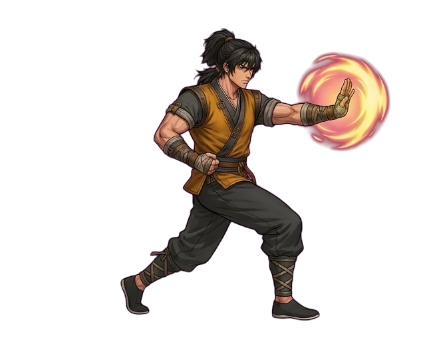
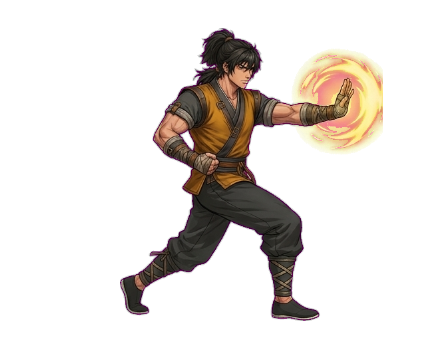
현운 공격 3번째 장면: 장풍 소용돌이가 뜯겨 보이던 것 다시 자름 (바탕색 풀기)

diff --git a/tools/recut_unmix_hy_attack2.js b/tools/recut_unmix_hy_attack2.js
@@ -1,0 +1,39 @@
+(async () => {
+  // 현운 공격 3번째 장면 다시 자르기: 마젠타(255,0,255) 바탕을 "색 풀기"로 빼서 빛나는 장풍 가장자리를 살림
+  const im = new Image(); im.src = '/assets_new/hyunwoon_attack_gem.png?t=' + Date.now(); await im.decode();
+  const W = im.width, H = im.height, cw = W / 2, ch = H / 2;
+  const c = document.createElement('canvas'); c.width = cw; c.height = ch;
+  const x = c.getContext('2d'); x.drawImage(im, 0, ch, cw, ch, 0, 0, cw, ch); // 아래 왼쪽 칸
+  const id = x.getImageData(0, 0, cw, ch), d = id.data;
+  // 바탕색: 네 귀퉁이 근처 평균 (정확한 255,0,255 가 아님)
+  let mr = 0, mg = 0, mb = 0, n = 0;
+  for (const [sx, sy] of [[10, 10], [cw - 20, 10], [10, ch - 20], [cw - 20, ch - 20], [cw / 2, 10]]) for (let yy = 0; yy < 10; yy++) for (let xx = 0; xx < 10; xx++) { const j = ((sy + yy) * cw + sx + xx) * 4; mr += d[j]; mg += d[j + 1]; mb += d[j + 2]; n++; }
+  const M = [mr / n / 255, mg / n / 255, mb / n / 255];
+  for (let i = 0; i < d.length; i += 4) {
+    const P = [d[i] / 255, d[i + 1] / 255, d[i + 2] / 255];
+    // 바탕은 R·B 가 높고 G 가 0 근처. 바탕 흔들림(약 0.1)은 무시
+    const m = 0.1;
+    let a = Math.max(P[1] / 0.9, (M[0] - m - P[0]) / (M[0] - m), (M[2] - m - P[2]) / (M[2] - m), (Math.abs(P[0] - P[2]) - 0.08) / 0.5);
+    const dist = Math.max(Math.abs(P[0] - M[0]), Math.abs(P[1] - M[1]), Math.abs(P[2] - M[2]));
+    if (dist > 0.5 && P[1] < 0.75) { d[i + 3] = 255; continue; } // 사람 몸: 바탕과 확실히 다르면 그대로 (빛나는 노랑은 아래에서 풀기)
+    if (a < 0.08) { d[i + 3] = 0; continue; }
+    a = Math.min(1, a);
+    for (let q = 0; q < 3; q++) d[i + q] = Math.max(0, Math.min(255, ((P[q] - (1 - a) * M[q]) / a) * 255));
+    d[i + 1] = Math.min(d[i + 1], Math.max(d[i], d[i + 2])); // 가장자리 초록 끼 빼기
+    d[i + 3] = Math.round(a * 255);
+  }
+  window.__M = M;
+  // 오른쪽 아래 제미나이 ✦ 자리(이 칸엔 없음) — 칸 가장자리 4px 비움
+  for (let y = 0; y < ch; y++) for (let X = 0; X < cw; X++) if (X < 4 || Y(y) || X >= cw - 4) d[(y * cw + X) * 4 + 3] = 0;
+  function Y(y) { return y < 4 || y >= ch - 4; }
+  x.putImageData(id, 0, 0);
+  // 그려진 범위
+  let minx = 1e9, maxx = -1, miny = 1e9, maxy = -1;
+  for (let y = 0; y < ch; y++) for (let X = 0; X < cw; X++) if (d[(y * cw + X) * 4 + 3] > 40) { if (X < minx) minx = X; if (X > maxx) maxx = X; if (y < miny) miny = y; if (y > maxy) maxy = y; }
+  // 지금 게임 그림(440x340): 위 28 · 발 320 · 왼쪽 120 에 맞춤
+  const k = (320 - 28) / (maxy - miny);
+  const o = document.createElement('canvas'); o.width = 440; o.height = 340;
+  const ox = o.getContext('2d'); ox.imageSmoothingQuality = 'high';
+  ox.drawImage(c, minx, miny, maxx - minx + 1, maxy - miny + 1, 120, 28, (maxx - minx + 1) * k, (maxy - miny + 1) * k);
+  return JSON.stringify({ M: window.__M, k, minx, maxx, miny, maxy, right: 120 + (maxx - minx) * k, url: o.toDataURL('image/png') });
+})()

diff --git a/작업기록.md b/작업기록.md
@@ -319,3 +319,4 @@
 - 발도일섬 동작·효과 키움 (11-13 사용자: "제스처나 이펙트가 약함"): 일섬 방향으로 260 거리를 0.09초에 꿰뚫고 지나감(경공 이동을 빌려 씀 → 장애물·무적 그대로) + 잔상 6개, 굵게 빛나는 검기(앞으로 뻗어 가늘어짐)·불꽃·속도선, 시작점 빛 고리, 맞은 적마다 X자 베인 자국(지나간 순서대로), 옆으로 튕김, 화면 당김·잠깐 느리게·흔들림 11. 일섬·자국은 적·협객 위 층(renderPlumBlossoms 뒤)에 그림 — 전엔 바닥 층이라 적에 가려 거의 안 보였음.
 - 시험용 협객 개방 (11-13 사용자): 주소 뒤 ?test → 현운·당소연 바로 고를 수 있음(이 기기에 기억, ?test=0 으로 끔). 내 PC 시험 서버(127.0.0.1)는 늘 열림. 은자·저장은 그대로.
 - 검막 다시 그림 (11-13 사용자: "검도 아니고 애매", "회오리 느낌"): 진짜 검(칼날 등줄·금빛 코등이·감은 손잡이·빨간 술)이 칼끝을 도는 방향으로 두고 돌며 검기 꼬리를 남김. 발밑부터 머리 위로 넓어지는 바람 고리 4겹(drawCurtainWind). 협객 뒤쪽 절반은 바닥 층, 앞쪽 절반은 맨 위 층에 그려 몸을 감싸 도는 것처럼.
+- 현운 공격 3번째 장면 다시 자름 (11-13 사용자: "3번째 공격이 잘려 보임"): 원본(assets_new/hyunwoon_attack_gem.png 아래 왼쪽)의 금빛 장풍 소용돌이가 마젠타 바탕을 지울 때 가장자리가 같이 지워져 뜯기고 붉게 보였음 → 몸은 그대로, 빛·가장자리는 바탕색을 "풀어서" 반투명으로 살림(tools/recut_unmix_hy_attack2.js, 바탕은 정확한 255,0,255 가 아니라 귀퉁이에서 잼). 같은 문제는 빛나는 효과가 있는 다른 그림에도 쓸 수 있음.
